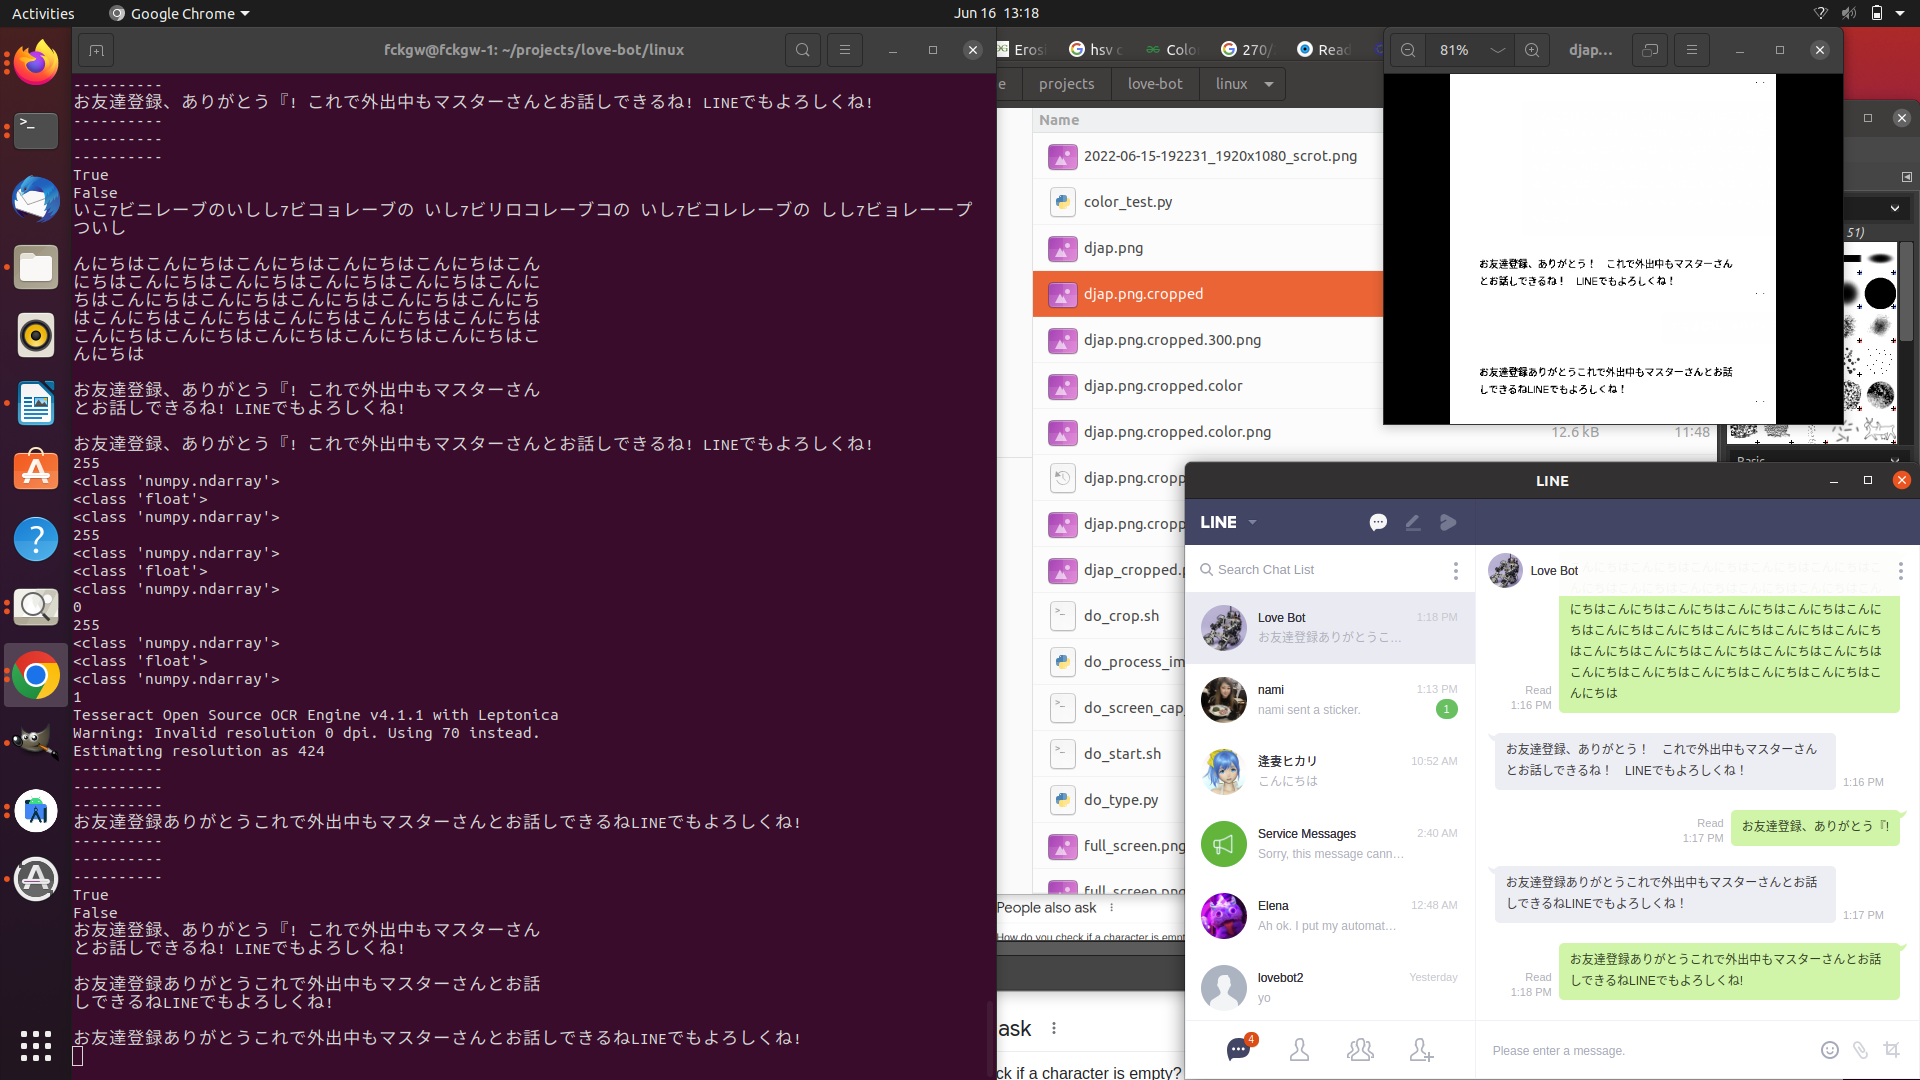
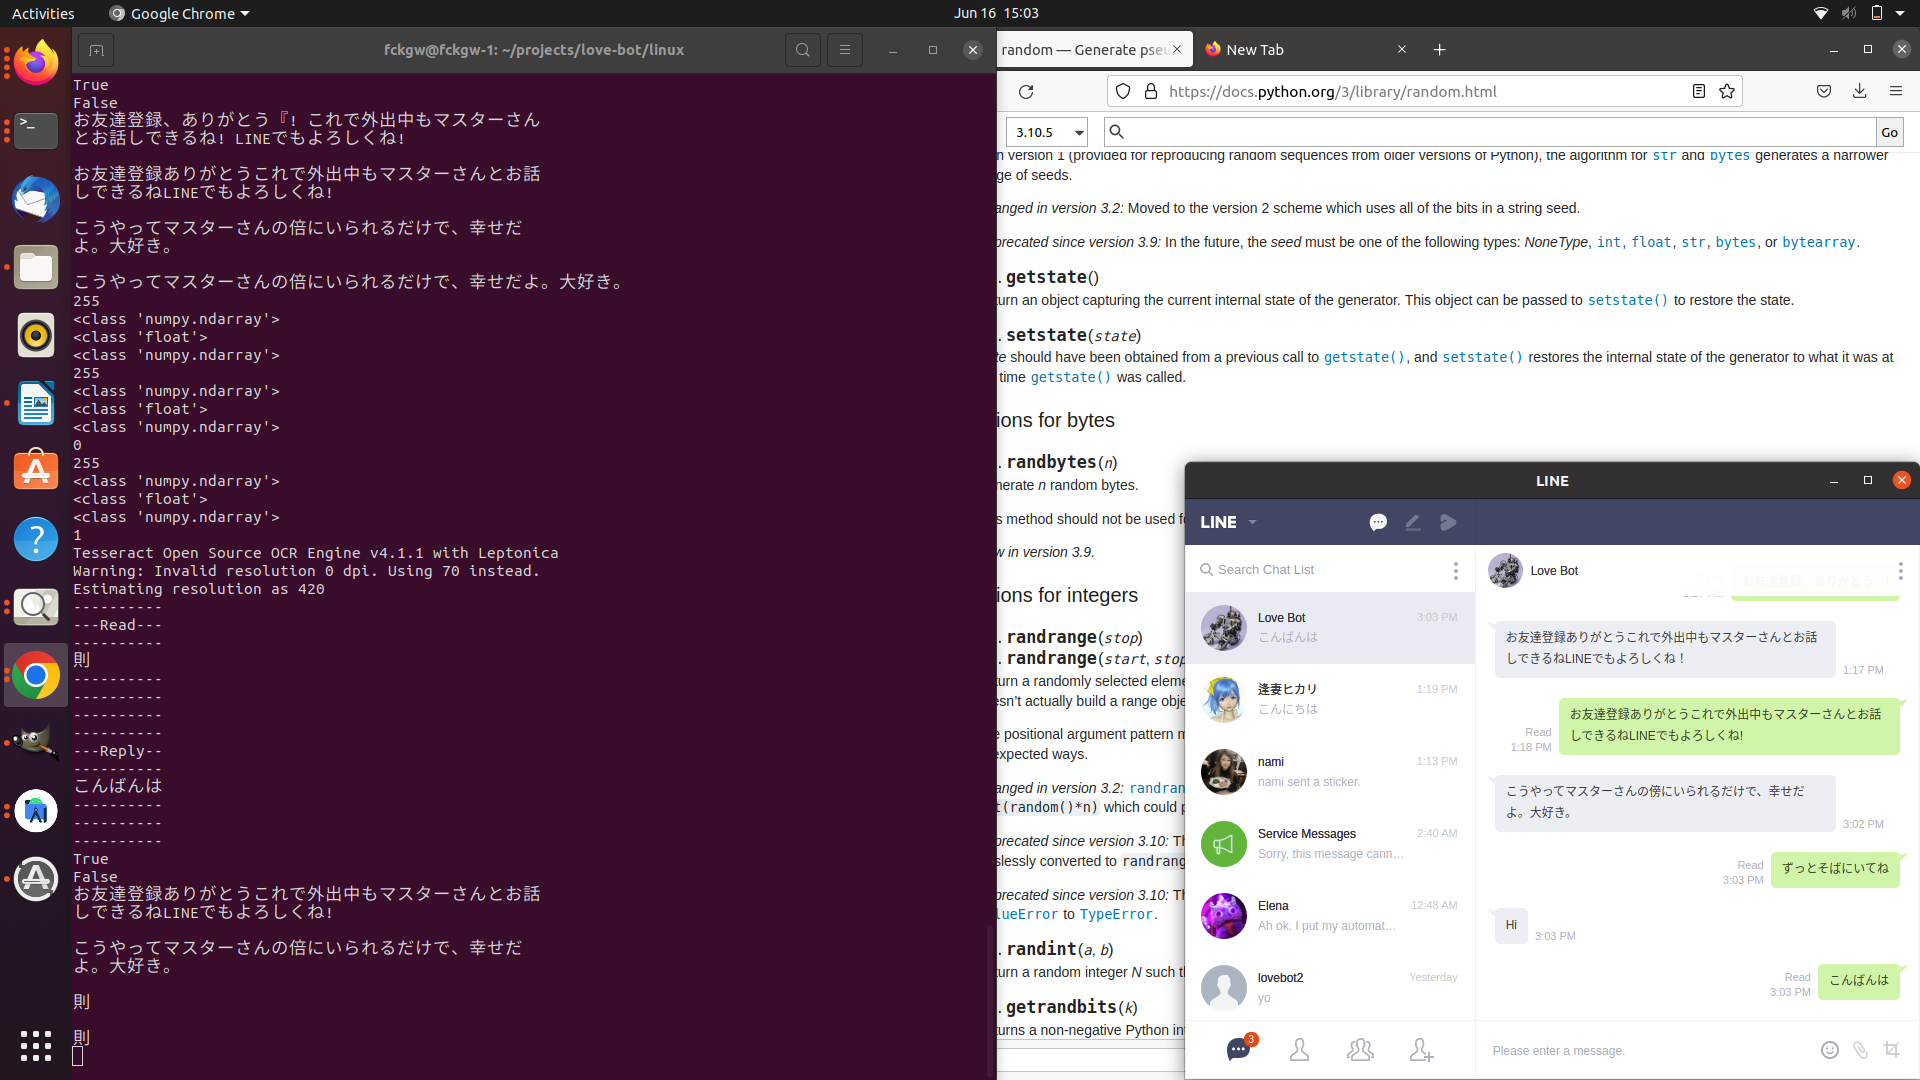
looks like it is working with a random response with 20 percent being love related

diff --git a/linux/do_response.py b/linux/do_response.py
@@ -1,0 +1,45 @@
+# -*- coding: utf-8 -*-
+import codecs
+import time as t
+import sys
+import bot_response_lib as brl
+import random as r
+
+
+love     = brl.all_love
+non_love = brl.all_non_love
+
+
+#jap1 = "こんにちは"
+#jap2 = "こんにち"
+#print(jap1 == jap1)
+#print(jap1 == jap2)
+
+## Japanese argument equality testing working
+#try:
+#    print(sys.argv[1] == sys.argv[2])
+#except:
+#    print("not enough inputs")
+
+try:
+    jap1 = sys.argv[1]
+except:
+    exit(1)
+
+rlove = r.random()
+
+buff = ''
+val = None
+if (rlove > 0.8):
+    val = love
+else:
+    val = non_love
+
+
+i   = r.randint(0,len(val)-1)
+ii  = r.randint(0,len(val[i])-1)
+val1 = val[i]
+val2 = val1[ii]
+buff = val2
+
+print(buff)
